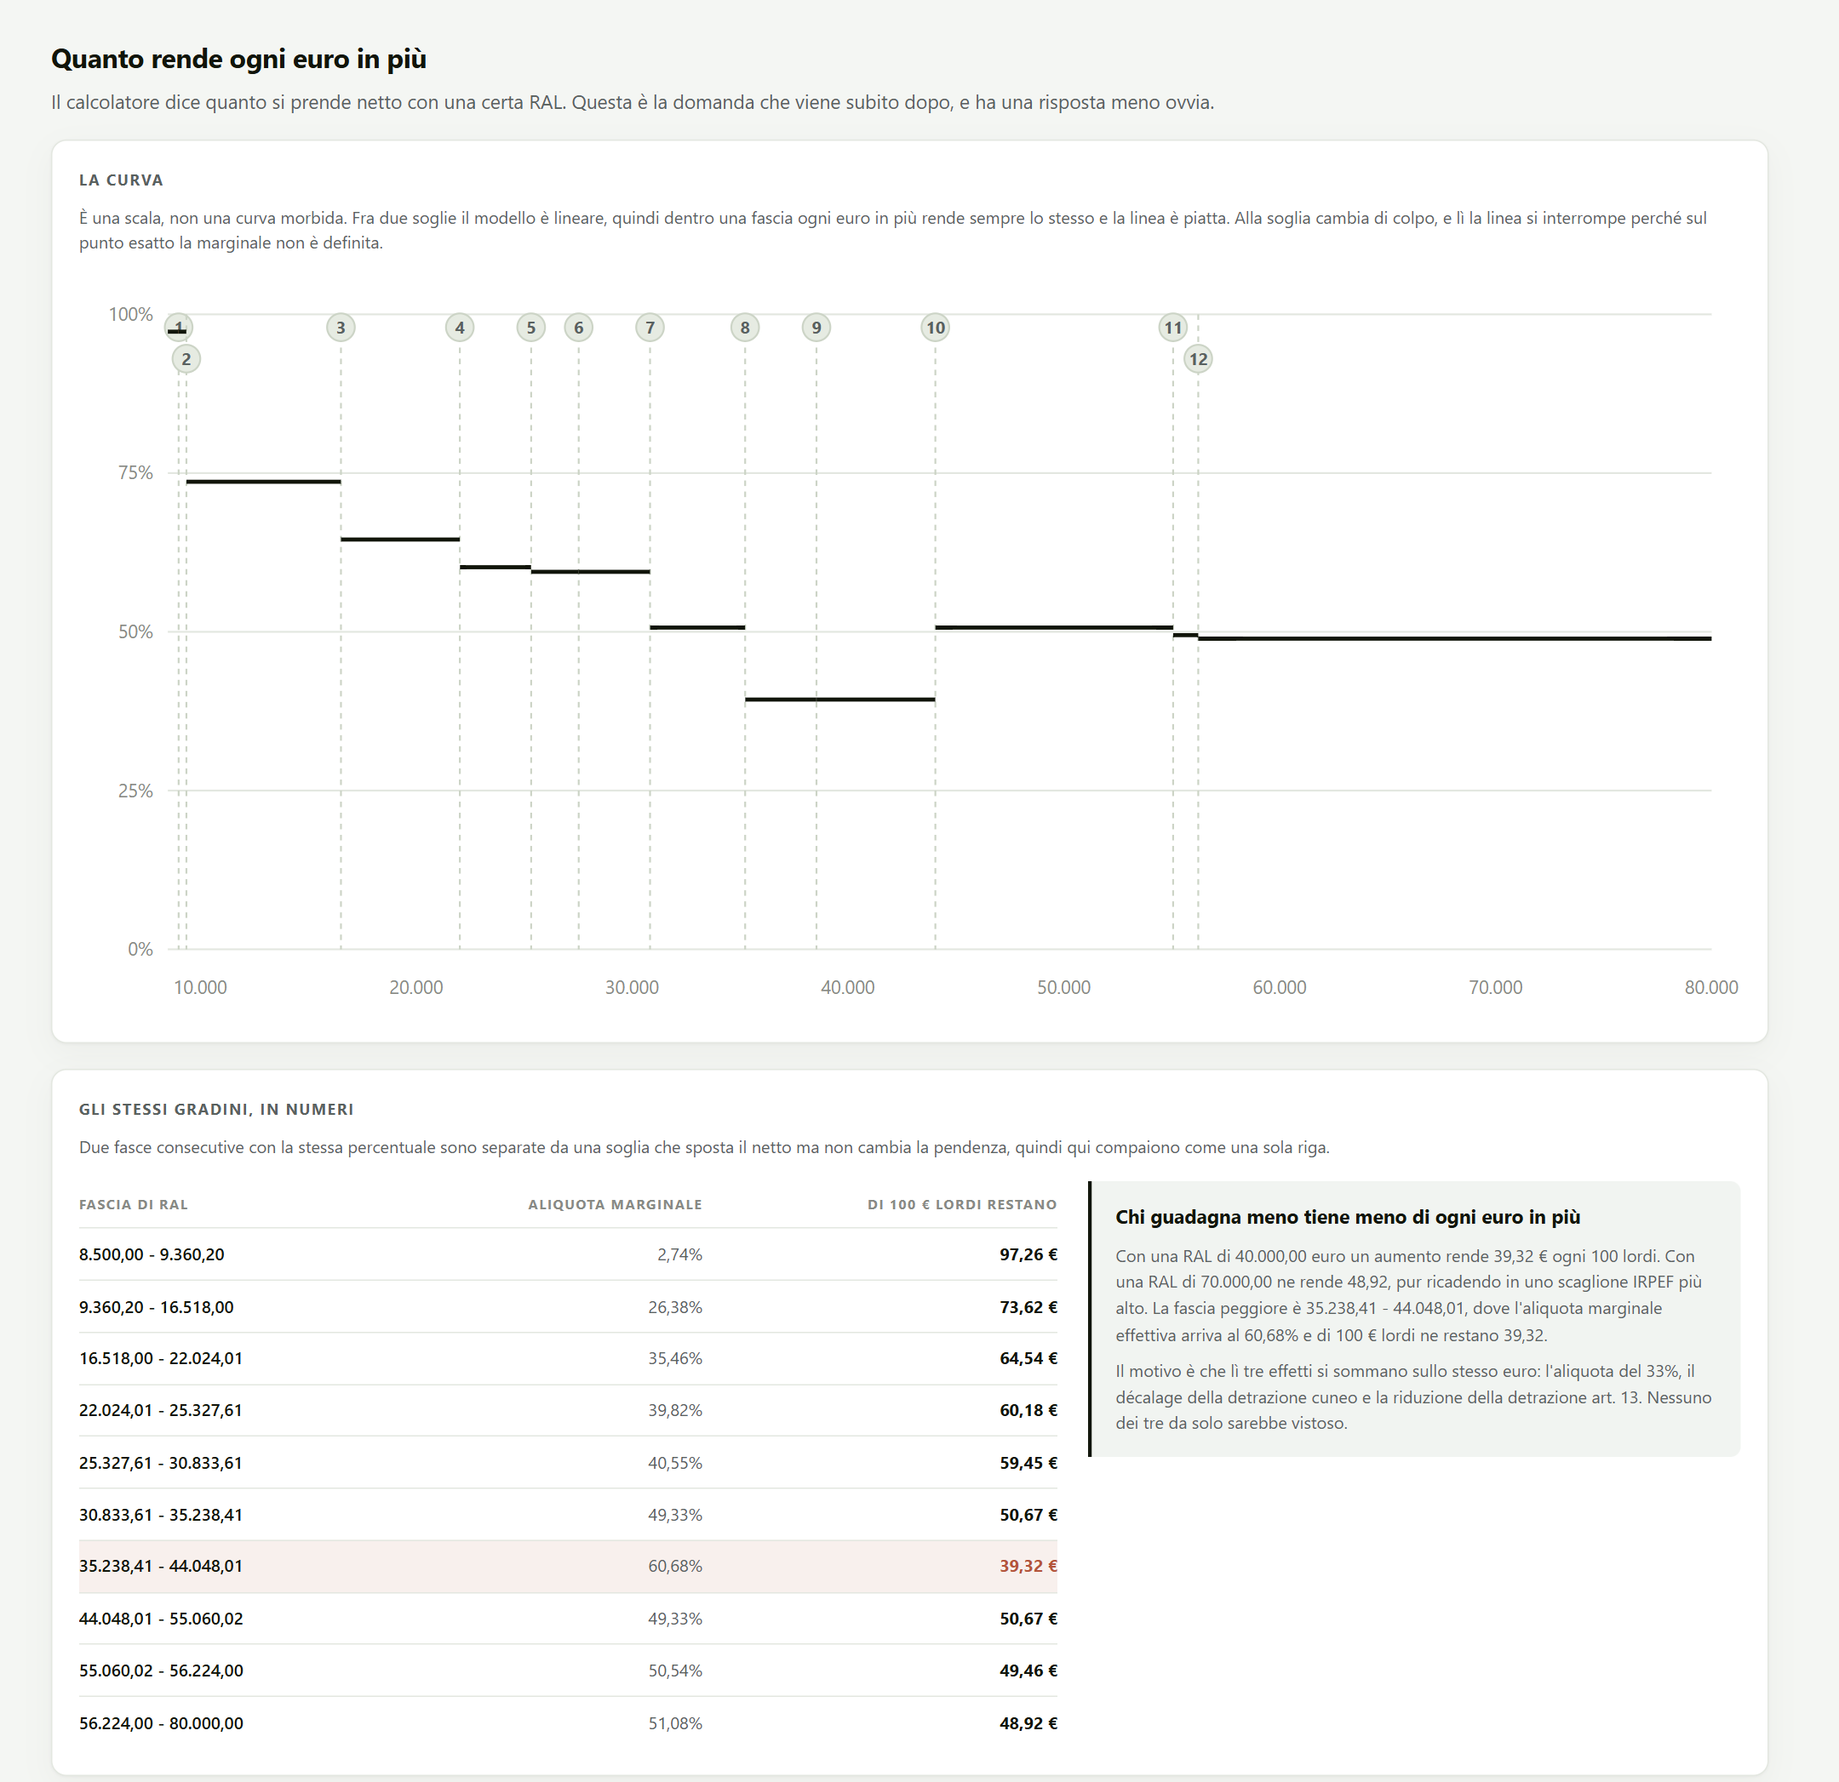
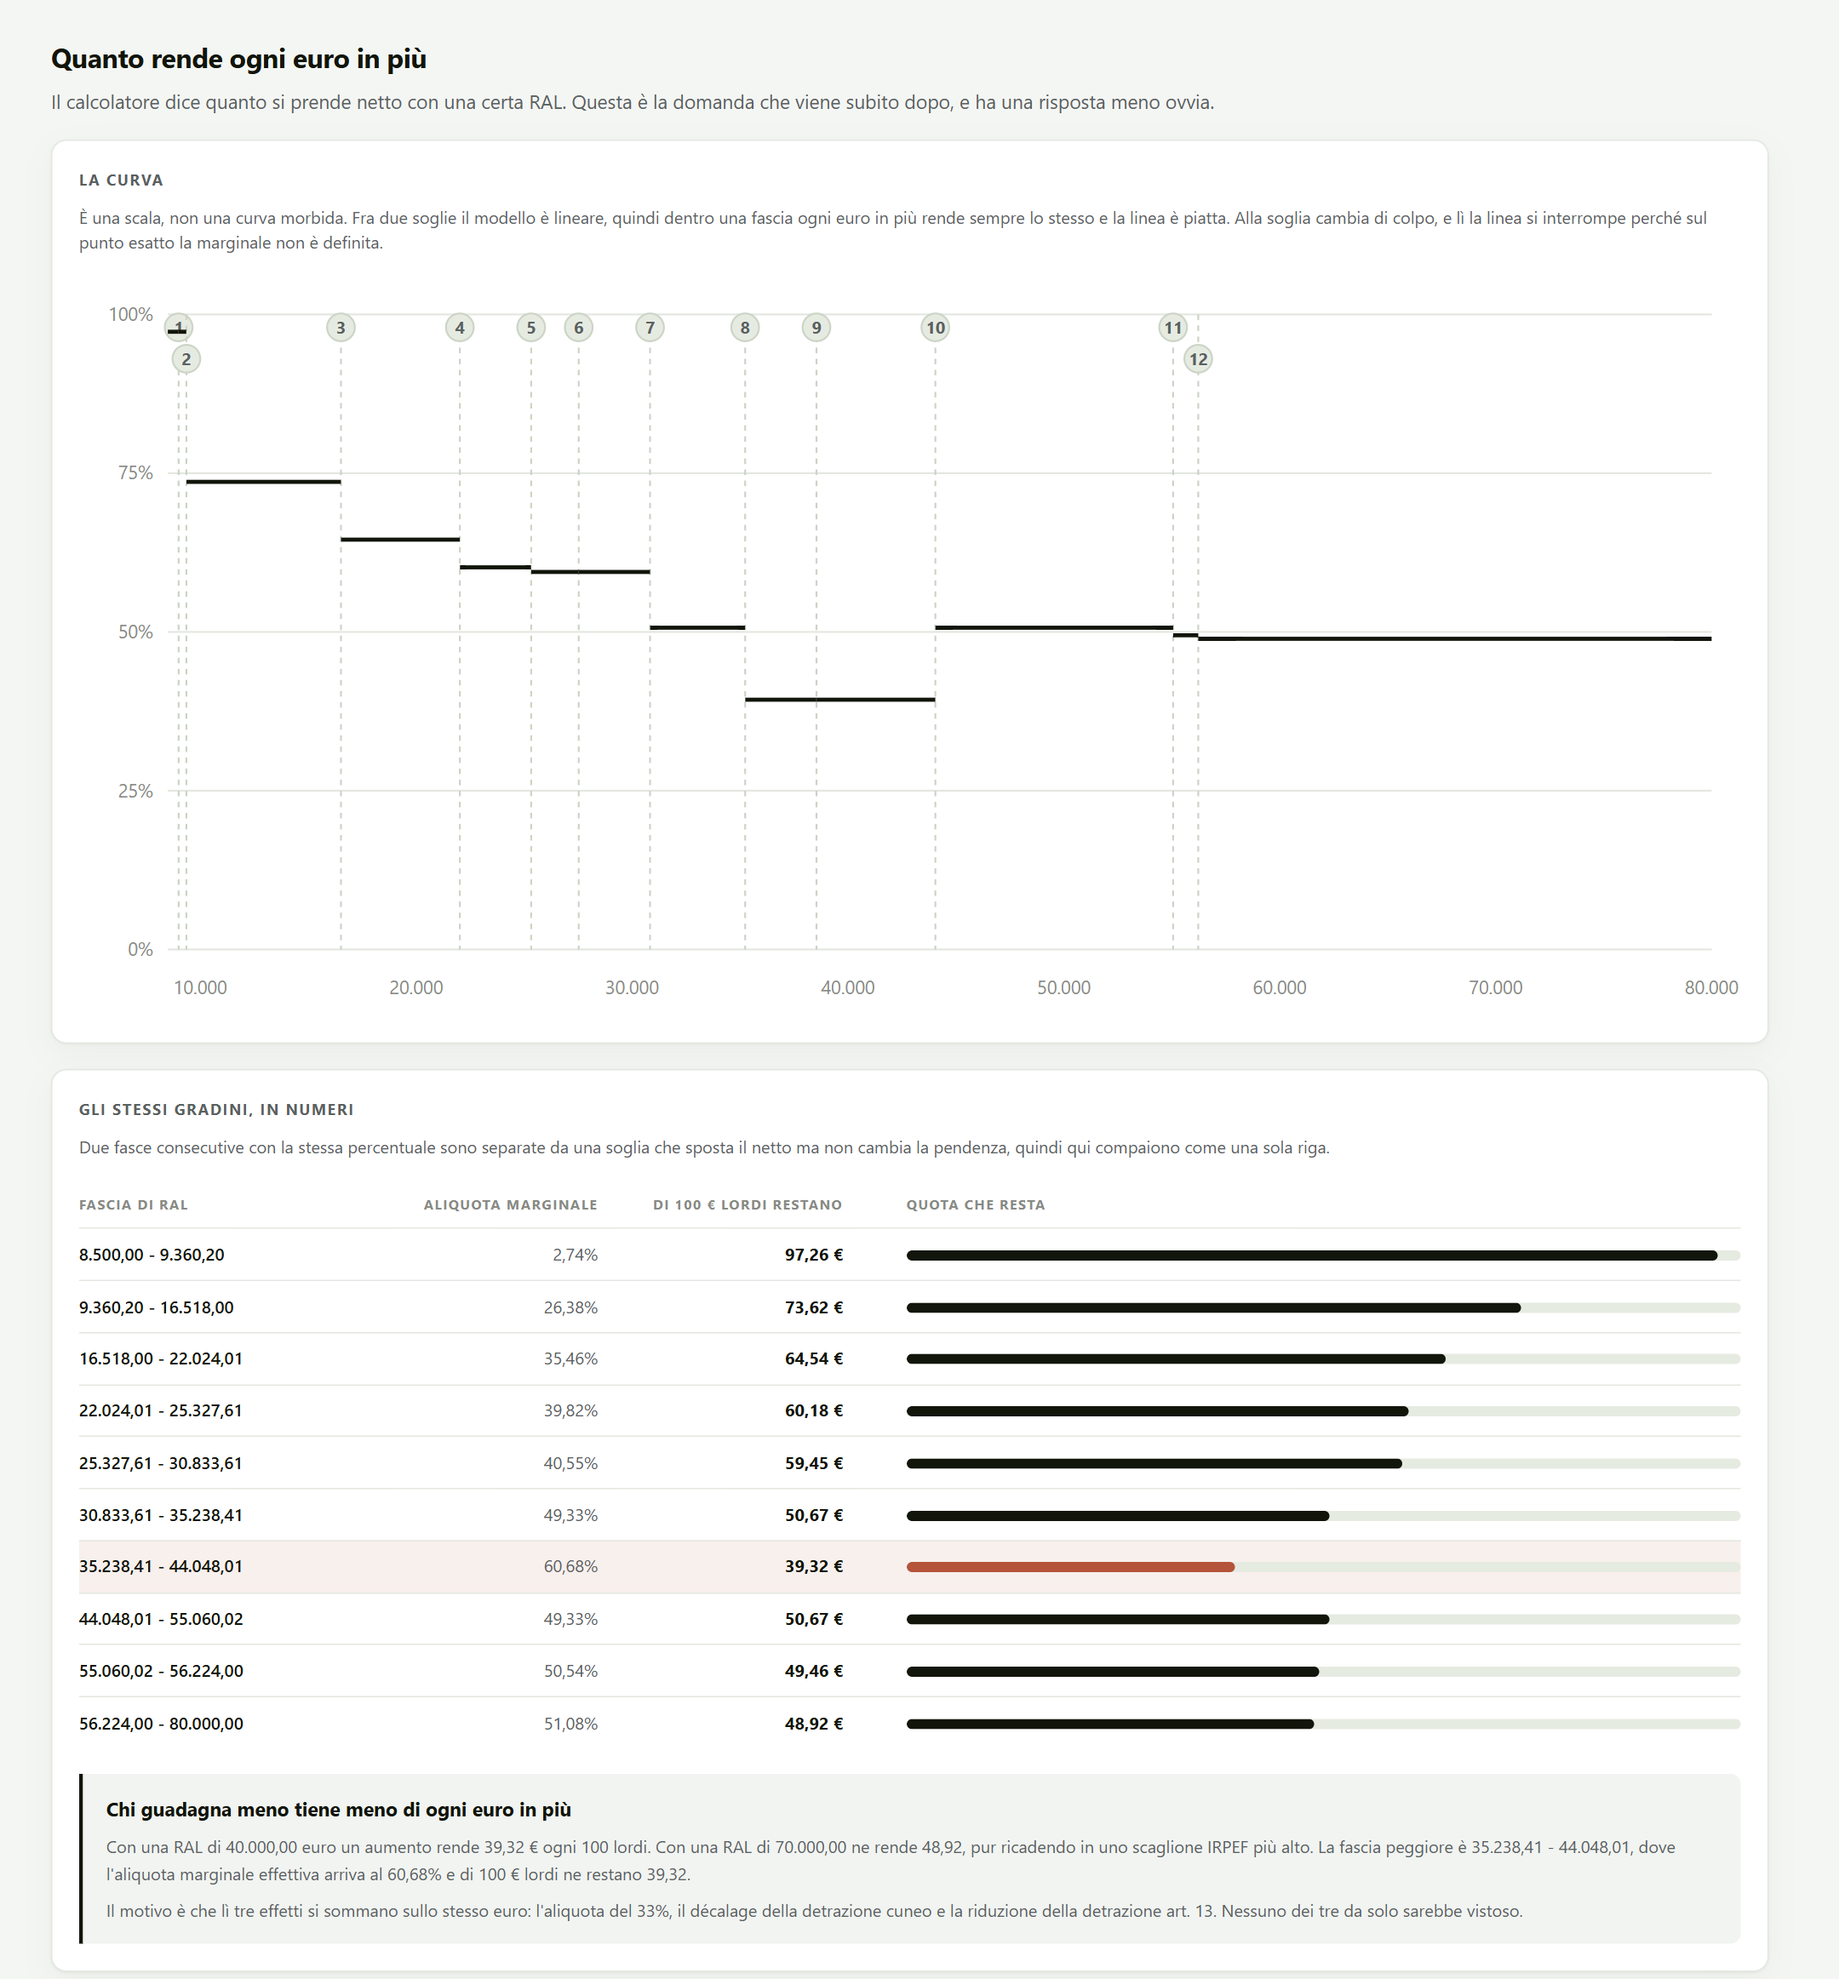
Tabella delle fasce a tutta larghezza con barre, screenshot aggiornato

diff --git a/src/styles.css b/src/styles.css
@@ -872,25 +872,34 @@ tfoot td {
    prendeva tre quarti della tabella e i numeri finivano a mezzo schermo di
    distanza dalla loro etichetta. Qui le colonne strette sono fissate e quella
    di testo si prende quello che resta. */
-.breakpoints { table-layout: fixed; }
+.bands, .breakpoints { table-layout: fixed; }
 
-/* Le bande sono tre colonne corte: a tutta pagina lascerebbero un metro di
-   vuoto fra la fascia e la sua aliquota. Stanno in una griglia accanto al
-   riquadro che le commenta, e insieme riempiono la card. */
-.bands-layout {
-  display: grid;
-  grid-template-columns: minmax(0, 3fr) minmax(0, 2fr);
-  gap: 1.5rem;
-  align-items: start;
-}
-
-.bands-layout .finding { margin-top: 0; }
-.bands-layout .finding:empty { display: none; }
+/* Le bande occupano tutta la card: le tre colonne di numeri hanno una
+   larghezza fissa e la quarta, la barra, si prende il resto. Cosi lo spazio
+   mostra la stessa scala del grafico invece di restare vuoto. */
 .bands th, .bands td { white-space: nowrap; }
+.bands th:nth-child(1), .bands td:nth-child(1) { width: 15rem; }
+.bands th:nth-child(2), .bands td:nth-child(2) { width: 11rem; }
+.bands th:nth-child(3), .bands td:nth-child(3) { width: 12rem; }
+.bands th.band-bar-col, .bands td.band-bar-col { width: auto; padding-left: 2.5rem; }
 
-@media (max-width: 72rem) {
-  .bands-layout { grid-template-columns: minmax(0, 1fr); }
+.band-bar {
+  display: block;
+  height: 0.5rem;
+  background: var(--surface-strong);
+  border-radius: 999px;
+  overflow: hidden;
 }
+
+.band-bar > span {
+  display: block;
+  height: 100%;
+  background: var(--text);
+  border-radius: 999px;
+}
+
+.bands tr.is-worst .band-bar > span { background: var(--negative); }
+.finding:empty { display: none; }
 
 .breakpoints th:nth-child(1), .breakpoints td:nth-child(1) { width: 8.5rem; }
 .breakpoints th:nth-child(2), .breakpoints td:nth-child(2) { width: auto; }
@@ -910,8 +919,12 @@ tfoot td {
   /* Le larghezze fisse servono a riequilibrare le colonne su uno schermo largo.
      Su uno stretto costringerebbero la tabella a scorrere di lato dove prima si
      riadattava: il problema da risolvere era l altro. */
-  .breakpoints { table-layout: auto; }
-  .breakpoints th, .breakpoints td { width: auto; }
+  .bands, .breakpoints { table-layout: auto; }
+  .bands th, .bands td, .breakpoints th, .breakpoints td { width: auto; }
+  .bands .band-bar-col { display: none; }
+  .bands th { white-space: normal; }
+  .bands th, .bands td { padding-left: 0.35rem; padding-right: 0.35rem; }
+  .bands th:first-child, .bands td:first-child { padding-left: 0; }
 
   .calc-form { grid-template-columns: 1fr; }
   .field-action { align-self: stretch; }

diff --git a/src/ui-curve.js b/src/ui-curve.js
@@ -224,6 +224,16 @@
       ui.cell(row, engine.formatRate(1 - band.rate), 'num');
       ui.cell(row, engine.formatAmount(band.rate * 100) + ' €', 'num amount');
 
+      // The same step as the chart, drawn as a bar: the column reads at a glance.
+      var barCell = ui.cell(row, '', 'band-bar-col');
+      var track = document.createElement('span');
+      track.className = 'band-bar';
+      track.setAttribute('aria-hidden', 'true');
+      var fill = document.createElement('span');
+      fill.style.width = (Math.max(0, Math.min(1, band.rate)) * 100).toFixed(2) + '%';
+      track.appendChild(fill);
+      barCell.appendChild(track);
+
       tbody.appendChild(row);
     });
 

diff --git a/curva.html b/curva.html
@@ -66,7 +66,6 @@
       sola riga.
     </p>
 
-    <div class="bands-layout">
     <div class="table-scroll">
       <table class="detail bands" id="band-table">
         <thead>
@@ -74,6 +73,7 @@
             <th scope="col">Fascia di RAL</th>
             <th scope="col" class="num">Aliquota marginale</th>
             <th scope="col" class="num">Di 100 € lordi restano</th>
+            <th scope="col" class="band-bar-col">Quota che resta</th>
           </tr>
         </thead>
         <tbody></tbody>
@@ -81,7 +81,6 @@
     </div>
 
     <div class="finding" id="finding"></div>
-    </div>
   </section>
 
   <div class="section-lead section-lead-extra">
